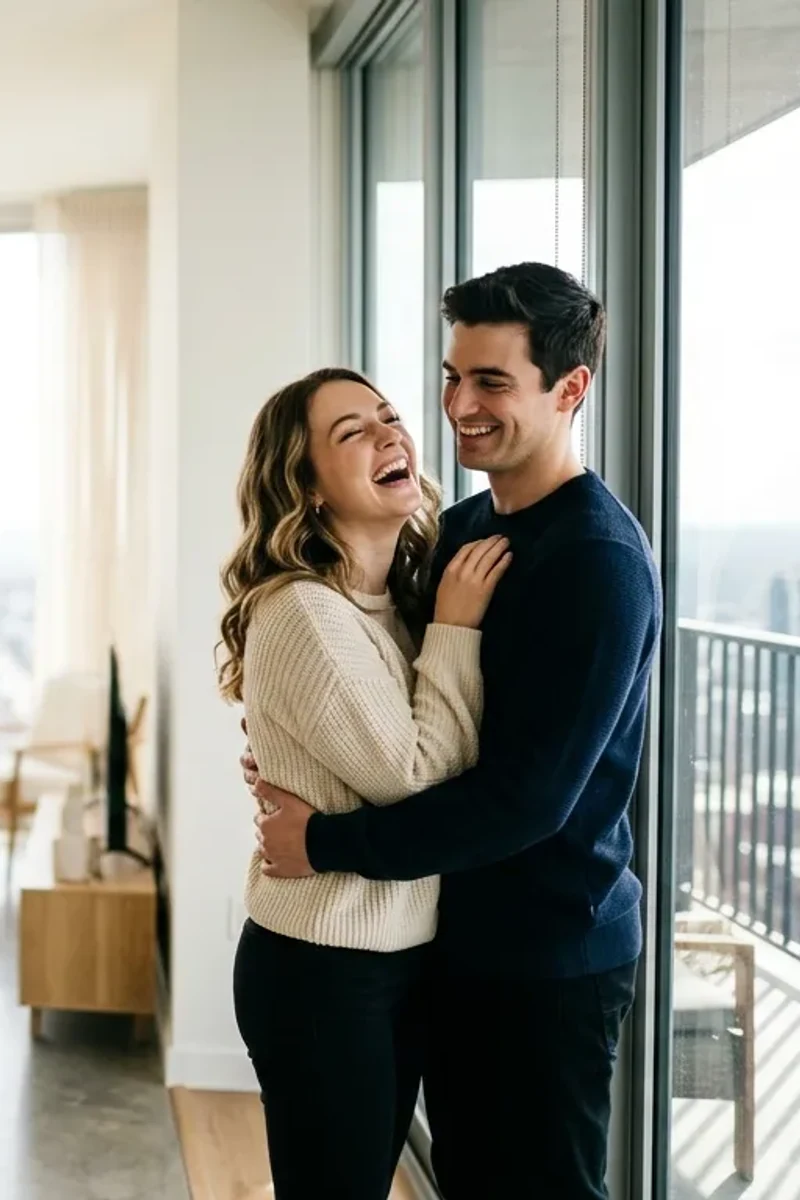
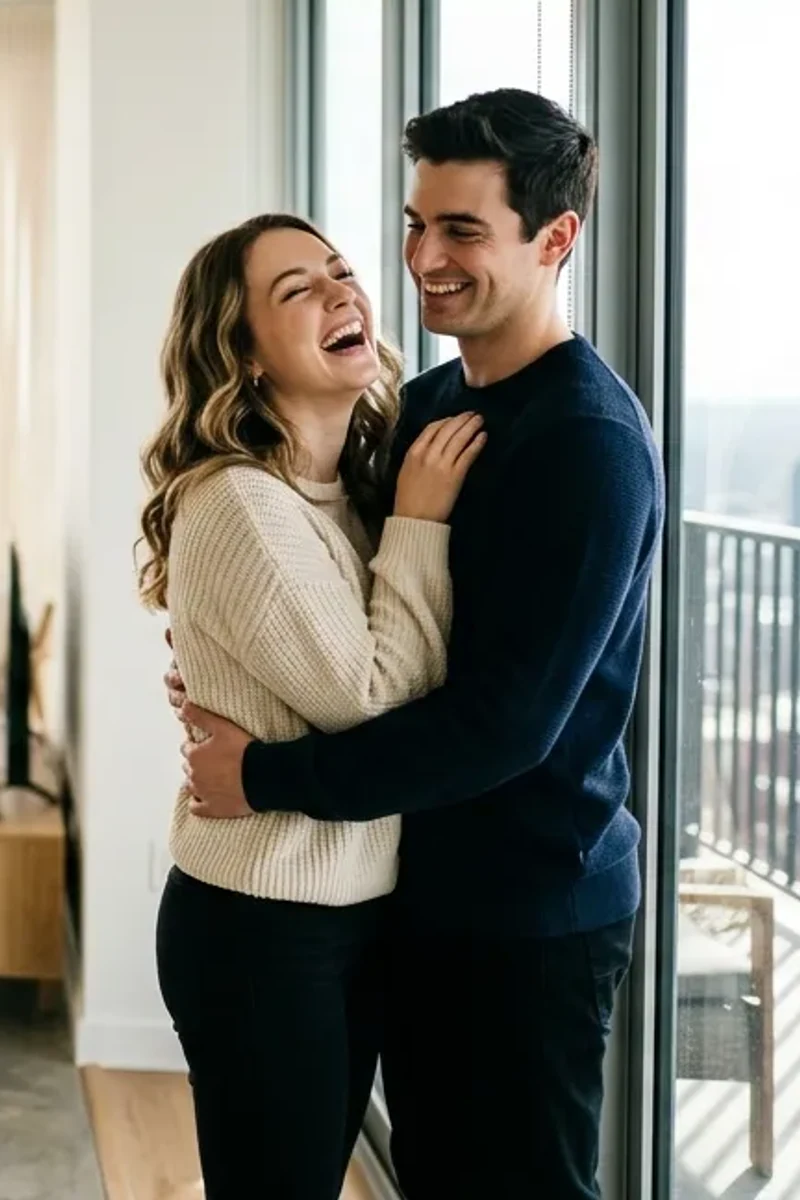
style(hero): elevate couple vertically so hands and waist are fully visible above metric cards

diff --git a/src/hero-carousel.tsx b/src/hero-carousel.tsx
@@ -79,7 +79,7 @@ export default function HeroCarousel({
             <motion.img
               src={heroBgDesktop}
               alt="Pareja feliz en su nuevo hogar con Gesgrama"
-              className="w-full h-full object-cover object-[92%_15%] sm:object-[94%_18%] md:object-[96%_20%] lg:object-[98%_22%]"
+              className="w-full h-full object-cover object-[92%_top] sm:object-[94%_top] md:object-[96%_top] lg:object-[98%_top]"
               loading="eager"
               fetchPriority="high"
               width={2560}
